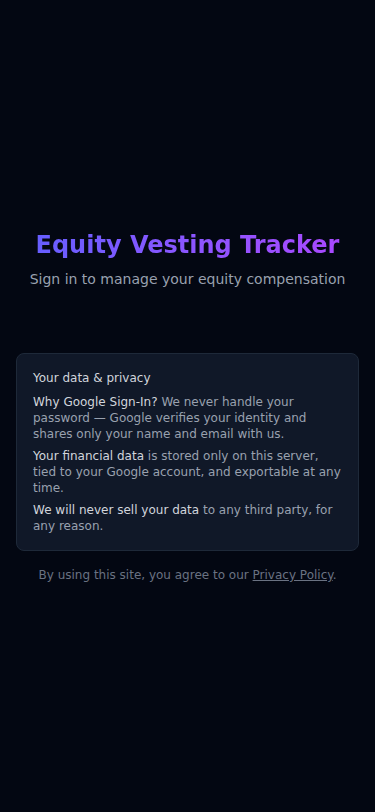
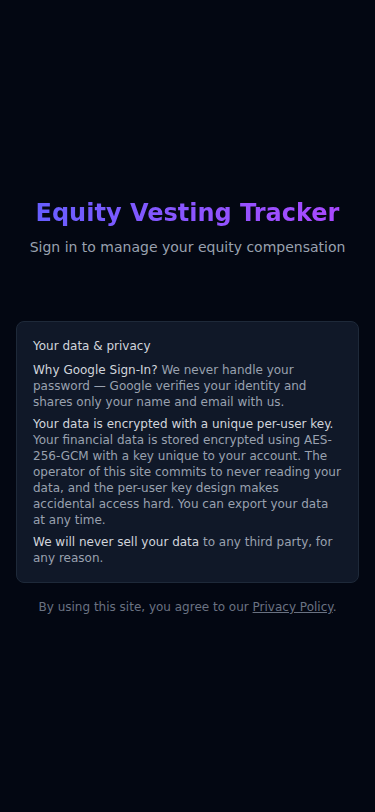
Clarify encryption & operator commitment on login page
Replace generic "stored on this server" bullet with precise copy:
per-user AES-256-GCM encryption, operator commits to never reading
user data, and per-user key design makes accidental access hard.

https://claude.ai/code/session_01AANT9KRsvgvAnyQdgB5ajD

Changed region(s): [[0.088, 0.4002, 0.9093, 0.7697], [0.088, 0.2463, 0.9093, 0.3695]]

diff --git a/frontend/src/pages/Login.tsx b/frontend/src/pages/Login.tsx
@@ -98,8 +98,8 @@ export default function Login() {
               We never handle your password — Google verifies your identity and shares only your name and email with us.
             </li>
             <li>
-              <span className="font-medium text-gray-600 dark:text-gray-300">Your financial data</span>{' '}
-              is stored only on this server, tied to your Google account, and exportable at any time.
+              <span className="font-medium text-gray-600 dark:text-gray-300">Your data is encrypted with a unique per-user key.</span>{' '}
+              Your financial data is stored encrypted using AES-256-GCM with a key unique to your account. The operator of this site commits to never reading your data, and the per-user key design makes accidental access hard. You can export your data at any time.
             </li>
             <li>
               <span className="font-medium text-gray-600 dark:text-gray-300">We will never sell your data</span>{' '}
